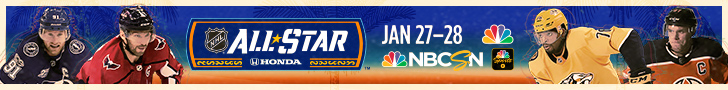
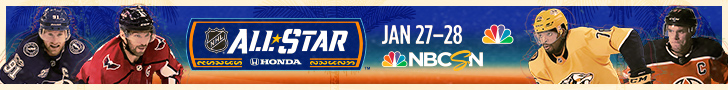
011418

Changed region(s): [[0.6648, 0.5333, 0.7253, 0.8]]

diff --git a/011418/html_css/728x90/728x90.html b/011418/html_css/728x90/728x90.html
@@ -87,7 +87,7 @@
 
           .add("endframe", "+=.25")
           // .from($lines_left, 1.25, {opacity:0, left:600, ease: Power2.easeOut}, "endframe")
-          .from($lines_right, 1.2, {opacity:0, left:-728}, "endframe")
+          // .from($lines_right, 1.2, {opacity:0, left:-728}, "endframe")
 
           .from($teams, 0.6, {xPercent:-100, ease: Power2.easeOut}, "teams+=0.2")
           .from($gotw_mask, 0.6, {width:0, ease: Power2.easeOut}, "teams+=0.7")
@@ -97,14 +97,16 @@
 
 
           .to($tag3, 0.25, {opacity:0}, "endframe")
-          .to($bg1, 1, {opacity:0}, "endframe+=0.25")
+          .to($bg1, .5, {left:728, ease: Power2.easeOut}, "endframe+=0.25")
+          // .to($bg1, 1, {opacity:0}, "endframe+=0.25")
           // .from($faceoff, 0.25, {opacity:0}, "endframe+=1.5")
           // .from($bg4, .5, {opacity:0}, "endframe+=1")
-          .from($bg4, .9, {opacity:0}, "+=.5");
-          // .to($bg3, 0.7, {opacity:0}, "+=.5")
-          // .to($bg3, 0.7, {opacity:1}, "+=.5")
-          // .to($bg3, 0.7, {opacity:0}, "+=.5")
-          // .to($bg3, 0.9, {opacity:1}, "+=.5");
+          .from($bg4, .9, {opacity:0}, "+=.5")
+          to($bg4, .9, {opacity:0}, "+=.5")
+          .to($bg4, .9, {opacity:1}, "+=.5")
+          .to($bg4, .9, {opacity:0}, "+=.5")
+          .to($bg4, .9, {opacity:1}, "+=.5");
+         
 
 
 

diff --git a/011418/html_css/728x90/style.css b/011418/html_css/728x90/style.css
@@ -26,11 +26,11 @@ body{
 
 #bg1{
 	position: absolute;
-	left: 0px;
+	left: -30px;
 	top: 0px;
-	width: 728px;
+	width: 776px;
 	height: 90px;
-	background: url(images/bg1.jpg) no-repeat;
+	background: url(images/bg1.png) no-repeat;
 }
 
 #lockup{
